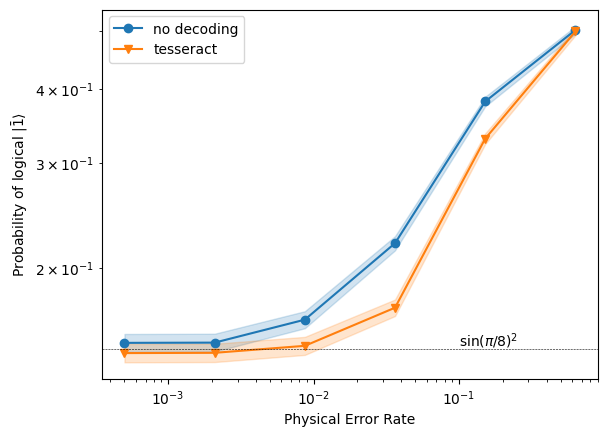
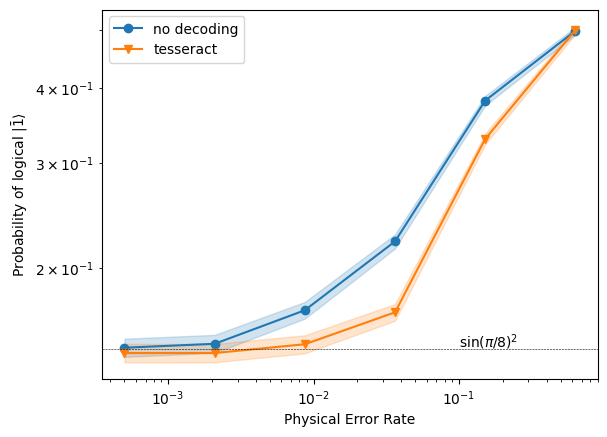
docs: run notebooks with JAX_PLATFORMS=cpu
Building on a machine with a GPU but no CUDA jaxlib baked JAX's fallback
warning into the tutorial outputs.

diff --git a/docs/build.py b/docs/build.py
@@ -704,6 +704,10 @@ def _convert_notebook(nb_path: Path, execute: bool) -> None:
         # set before the kernel (a subprocess) starts so it's inherited.
         old_sde = os.environ.get("SOURCE_DATE_EPOCH")
         os.environ["SOURCE_DATE_EPOCH"] = "1704067200"  # 2024-01-01 UTC
+        # Run JAX on CPU so outputs don't depend on the build machine (and a
+        # GPU without a CUDA jaxlib doesn't print a fallback warning).
+        old_jax = os.environ.get("JAX_PLATFORMS")
+        os.environ["JAX_PLATFORMS"] = "cpu"
         # Inject a hidden preamble that seeds RNG and fixes matplotlib's SVG
         # element-id hashing, so executed outputs (sampled values, figures)
         # are byte-stable across builds and safe to commit. tsim samplers use
@@ -746,6 +750,10 @@ def _convert_notebook(nb_path: Path, execute: bool) -> None:
                 os.environ.pop("SOURCE_DATE_EPOCH", None)
             else:
                 os.environ["SOURCE_DATE_EPOCH"] = old_sde
+            if old_jax is None:
+                os.environ.pop("JAX_PLATFORMS", None)
+            else:
+                os.environ["JAX_PLATFORMS"] = old_jax
 
     # Drop cells tagged "remove-cell" (post-execution).
     tag_remove = TagRemovePreprocessor(remove_cell_tags=("remove-cell",))
